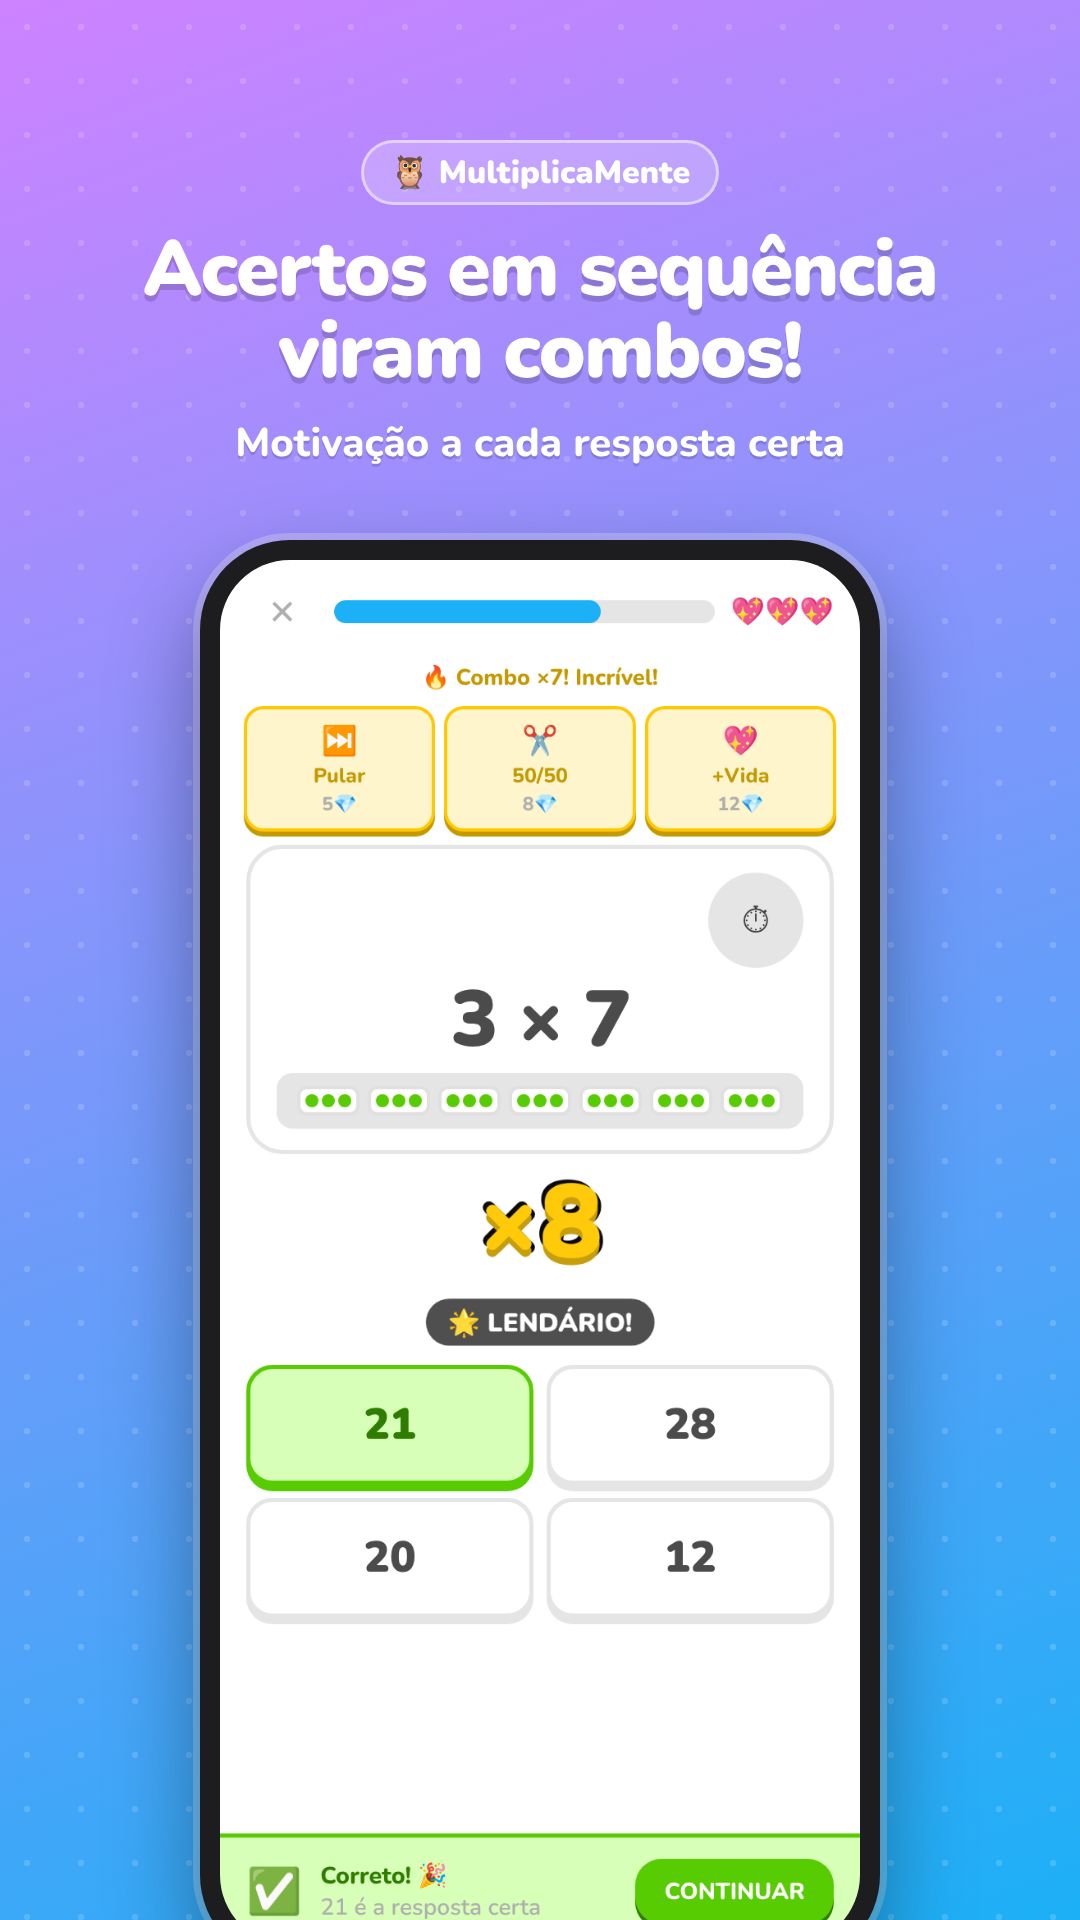
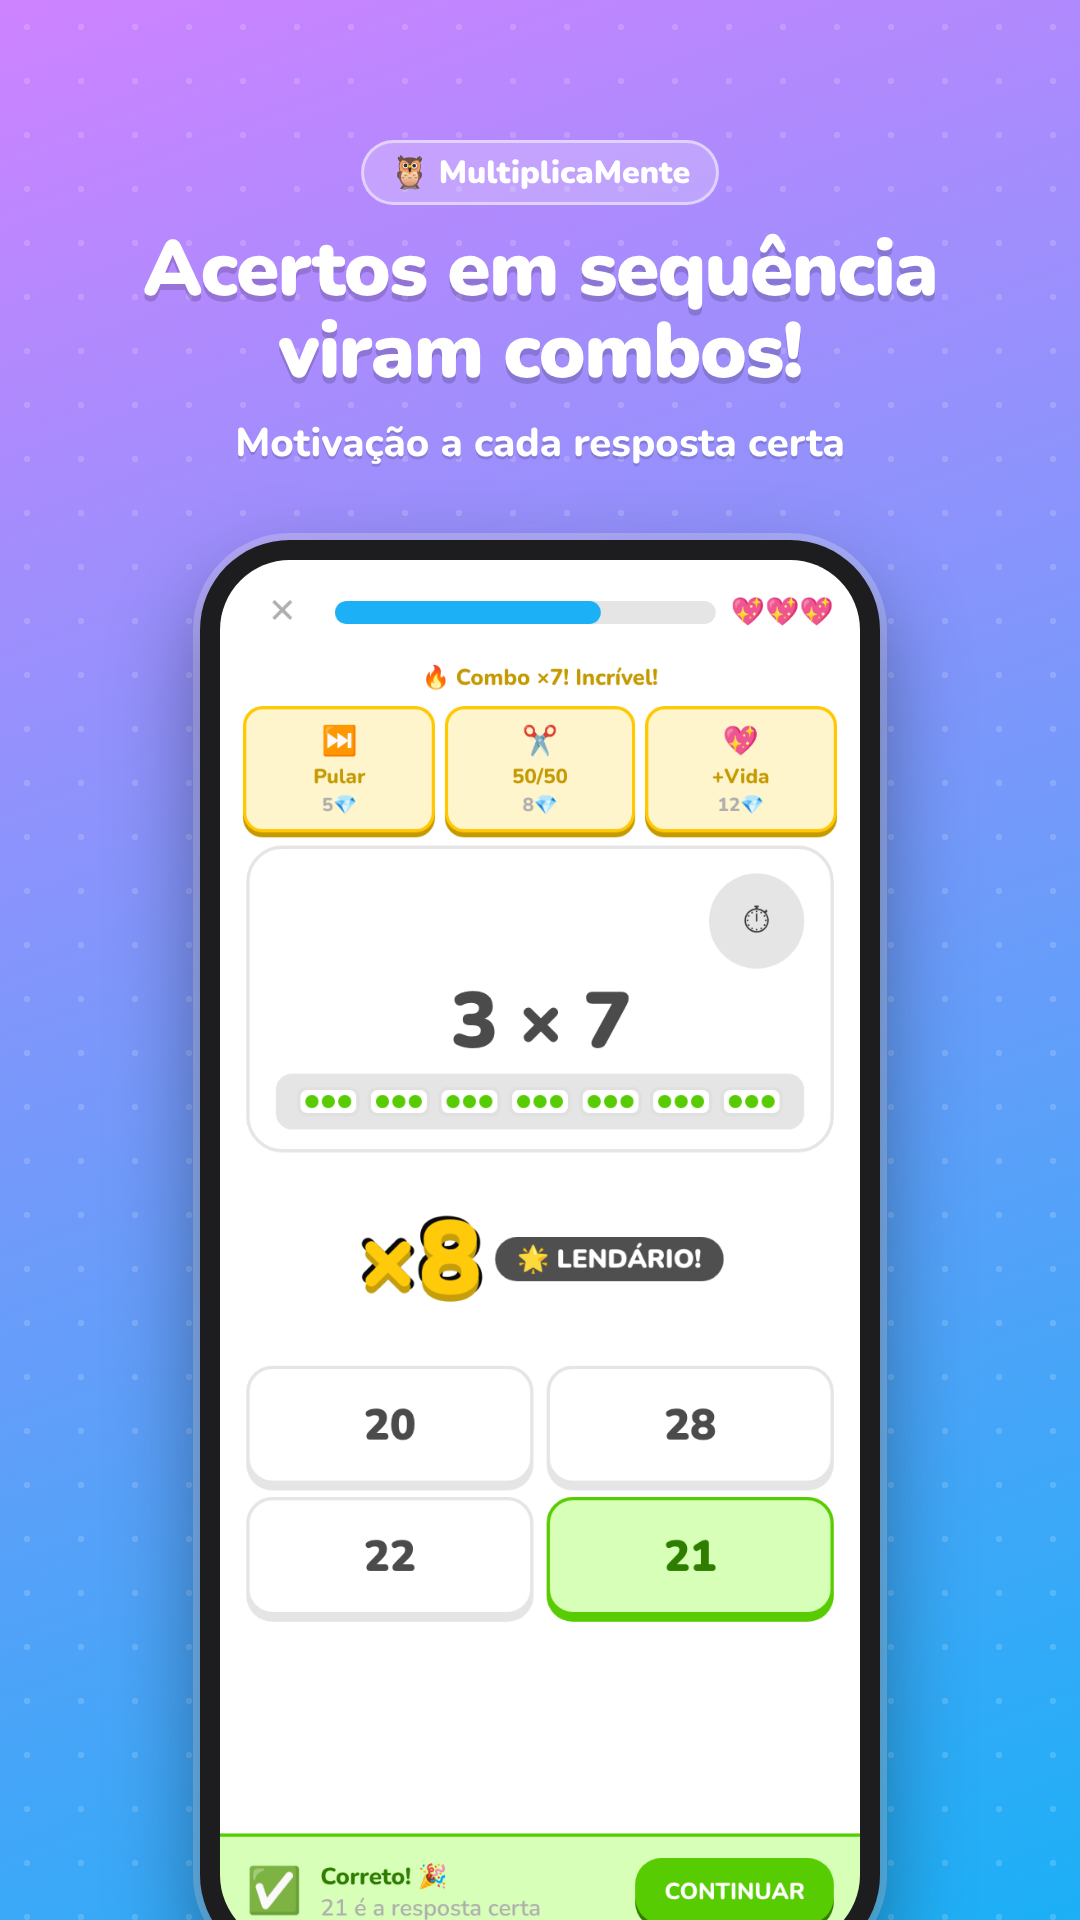
feat: imagens de tablet 7" e 10" e app ampliado em tablets
- marketing/loja/tablet_7pol (1080x1920) e tablet_10pol (1440x2560):
  as mesmas 8 telas com frases para os pais, no layout real de tablet
- Capturas de celular e gráfico de recursos refeitos com a nova animação
  de combo
- Tablet: o cartão do app (440x820) ficava do tamanho de um celular no
  meio da tela; agora é ampliado proporcionalmente (fitApp) para
  preencher a tela. Celular e tablet na horizontal não mudam
- Animação de combo dentro do cartão, centralizada no espaço entre a
  pergunta e as respostas (calculado depois da barra "Correto!"),
  com número e texto lado a lado
- Aviso "Missão concluída" espera a animação de combo terminar

Claude-Session: https://claude.ai/code/session_018USuwbLH5FBPDDRGoMxyHG

diff --git a/www/index.html b/www/index.html
@@ -607,10 +607,10 @@ body[data-dark="1"] .inp{background:var(--bg-card);color:var(--text-main);}
 .pu-icon{font-size:1.1rem;}
 
 /* ── BIG COMBO POPUP ─────────────────────────────────────── */
-.combo-pop{position:fixed;top:43%;left:50%;transform:translateX(-50%);z-index:500;pointer-events:none;text-align:center;animation:comboPop .55s ease-out forwards;}
-@keyframes comboPop{0%{opacity:0;transform:translateX(-50%) scale(.3)}55%{transform:translateX(-50%) scale(1.25)}100%{opacity:1;transform:translateX(-50%) scale(1)}}
+.combo-pop{position:absolute;top:44%;left:50%;transform:translate(-50%,-50%);z-index:500;pointer-events:none;display:flex;align-items:center;gap:.5rem;white-space:nowrap;animation:comboPop .55s ease-out forwards;}
+@keyframes comboPop{0%{opacity:0;transform:translate(-50%,-50%) scale(.3)}55%{transform:translate(-50%,-50%) scale(1.25)}100%{opacity:1;transform:translate(-50%,-50%) scale(1)}}
 .combo-pop-num{font-size:3.8rem;font-weight:900;color:var(--yellow);text-shadow:0 4px 0 var(--yellow-sh),-2px -2px 0 #000,2px 2px 0 #000;}
-.combo-pop-lbl{display:inline-block;margin-top:.2rem;font-size:.95rem;font-weight:900;color:#fff;background:rgba(40,40,40,.85);padding:.2rem .8rem;border-radius:100px;}
+.combo-pop-lbl{display:inline-block;font-size:.95rem;font-weight:900;color:#fff;background:rgba(40,40,40,.85);padding:.2rem .8rem;border-radius:100px;}
 
 /* ── CREATURE: silhouette ────────────────────────────────── */
 .cre-silh{font-size:1.9rem;filter:brightness(0);opacity:.2;}
@@ -2327,7 +2327,7 @@ function setupTimer(){
 }
 function updateRing(rem,total,arc,num,C){const pct=rem/total;arc.style.strokeDashoffset=C*(1-pct);num.textContent=Math.ceil(rem);arc.className='qr-arc'+(pct>.5?'':pct>.25?' warn':' hot')}
 function timeOut(){const q=GS.questions[GS.cur];const ans=q.ans!==undefined?q.ans:q.a*q.b;GS.combo=0;GS.wrong++;GS.hearts--;playDuck();showRB(false,`Tempo! A resposta era ${ans}`,'Tente mais rápido da próxima vez! ⏱');for(let i=0;i<4;i++){const b=document.getElementById('a'+i);b.disabled=true;if(parseInt(b.textContent)===ans)b.classList.add('correct')}if(GS.hearts<=0){setTimeout(()=>endGame(false),1500);return}}
-function pick(sel,correct,btn){if(waitNext)return;clearInterval(tIv);for(let i=0;i<4;i++)document.getElementById('a'+i).disabled=true;if(sel===correct){btn.classList.add('correct');GS.ok++;GS.combo++;GS.maxCombo=Math.max(GS.maxCombo,GS.combo);P.totalOk=(P.totalOk||0)+1;playSuccess();if(GS.combo>=3)showComboPop(GS.combo);else flash(PRAISES[~~(Math.random()*PRAISES.length)],'ok');showRB(true,'Correto! 🎉',`${sel} é a resposta certa`);updateMissionProgress('combo',GS.combo);autoT=setTimeout(nextQ,GS.combo>=3?1300:1000);}else{btn.classList.add('wrong');for(let i=0;i<4;i++){const b=document.getElementById('a'+i);if(parseInt(b.textContent)===correct)b.classList.add('correct')}GS.combo=0;GS.wrong++;GS.hearts--;P.totalWrong=(P.totalWrong||0)+1;playDuck();showRB(false,`A resposta era ${correct}`,`${GS.questions[GS.cur].a} ${GS.questions[GS.cur].op||'×'} ${GS.questions[GS.cur].b} = ${correct}`);if(GS.hearts<=0){setTimeout(()=>endGame(false),1600);return}}}
+function pick(sel,correct,btn){if(waitNext)return;clearInterval(tIv);for(let i=0;i<4;i++)document.getElementById('a'+i).disabled=true;if(sel===correct){btn.classList.add('correct');GS.ok++;GS.combo++;GS.maxCombo=Math.max(GS.maxCombo,GS.combo);P.totalOk=(P.totalOk||0)+1;playSuccess();showRB(true,'Correto! 🎉',`${sel} é a resposta certa`);if(GS.combo>=3)showComboPop(GS.combo);else flash(PRAISES[~~(Math.random()*PRAISES.length)],'ok');updateMissionProgress('combo',GS.combo);autoT=setTimeout(nextQ,GS.combo>=3?1300:1000);}else{btn.classList.add('wrong');for(let i=0;i<4;i++){const b=document.getElementById('a'+i);if(parseInt(b.textContent)===correct)b.classList.add('correct')}GS.combo=0;GS.wrong++;GS.hearts--;P.totalWrong=(P.totalWrong||0)+1;playDuck();showRB(false,`A resposta era ${correct}`,`${GS.questions[GS.cur].a} ${GS.questions[GS.cur].op||'×'} ${GS.questions[GS.cur].b} = ${correct}`);if(GS.hearts<=0){setTimeout(()=>endGame(false),1600);return}}}
 function showRB(ok,title,sub){waitNext=true;const bar=document.getElementById('resultBar');bar.className='result-bar '+(ok?'rb-correct':'rb-wrong');document.getElementById('rbIcon').textContent=ok?'✅':'❌';document.getElementById('rbTitle').textContent=title;document.getElementById('rbSub').textContent=sub;document.getElementById('sGame').classList.add('rb-visible');}
 let autoT=null;
 function nextQ(){clearTimeout(autoT);if(!waitNext||GS.hearts<=0)return;GS.cur++;if(GS.cur>=GS.questions.length){endGame(true);return}if(GS.cur===5){openModal('mBreak');return}renderQ()}
@@ -2518,7 +2518,7 @@ function updateMissionProgress(key, val){
   const ms = getMissions();
   ms.forEach(m=>{
     if(m.done) return;
-    if(m.key === key){ m.cur = Math.min(m.max, key==='combo' ? Math.max(m.cur, val) : m.cur + val); if(m.cur >= m.max){ m.done = true; if(P){ P.gems = (P.gems||0) + m.rew; sp(); flash('Missão concluída! +'+m.rew+'💎','ok'); } } }
+    if(m.key === key){ m.cur = Math.min(m.max, key==='combo' ? Math.max(m.cur, val) : m.cur + val); if(m.cur >= m.max){ m.done = true; if(P){ P.gems = (P.gems||0) + m.rew; sp(); const msg='Missão concluída! +'+m.rew+'💎'; if(document.querySelector('.combo-pop')) setTimeout(()=>flash(msg,'ok'),1250); else flash(msg,'ok'); } } }
   });
   saveMissions(ms);
   renderMissions();
@@ -2783,7 +2783,15 @@ function showComboPop(n){
   const div = document.createElement('div');
   div.className = 'combo-pop';
   div.innerHTML = `<div class="combo-pop-num">×${n}</div><div class="combo-pop-lbl">${msgs[lbl]}</div>`;
-  document.body.appendChild(div);
+  // Dentro do cartão do app (acompanha a ampliação no tablet), no meio do espaço entre a pergunta e as respostas
+  const app = document.getElementById('app');
+  app.appendChild(div);
+  try {
+    const z = parseFloat(app.style.zoom) || 1, ar = app.getBoundingClientRect();
+    const qb = document.querySelector('#sGame .q-card').getBoundingClientRect().bottom;
+    const at = document.getElementById('a0').getBoundingClientRect().top;
+    if(at > qb) div.style.top = (((qb + at) / 2 - ar.top) / z) + 'px';
+  } catch(e) {}
   setTimeout(()=>div.remove(), 1200);
 }
 
@@ -2796,6 +2804,16 @@ function updateStoryProgress(){
   const el = document.getElementById('storyProgress');
   if(el) el.textContent = `${totalCre}/${TOTAL_CRE}`;
 }
+
+// Tablet: o cartão do app tem 440×820; amplia proporcionalmente para preencher a tela
+function fitApp(){
+  const a=document.getElementById('app'); if(!a) return;
+  if(innerWidth<600){ a.style.zoom=''; return; }
+  const z=Math.min(innerWidth*0.94/440, innerHeight*0.95/820, 2);
+  a.style.zoom = z>1.05 ? z.toFixed(3) : '';
+}
+window.addEventListener('resize', fitApp);
+fitApp();
 
 initFirebase();
 window.addEventListener('load', ()=>{ setTimeout(initBilling, 1500); });
